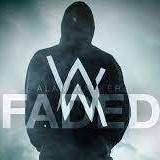
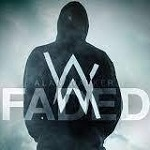
modified aspet ratio

diff --git a/main.js b/main.js
@@ -85,7 +85,7 @@ createNew(row_10);
 // Song Ids 
 const Id1 = ['imgbtn11','imgbtn12','imgbtn13','imgbtn14'];
 // Song titles
-const songs = ['Faded','On My Way','Darkside','The Spectre'];
+const songs = ['On My Way','Darkside','The Spectre','Faded'];
 
 // Changing the tiles
 for(let i=0;i<4;i++)

diff --git a/style.css b/style.css
@@ -298,7 +298,7 @@ header{
     border: solid white;
 }
 .song{
-    top : 60%;
+    top : 65%;
     position: sticky;
     display: flex;
     justify-content: center;
